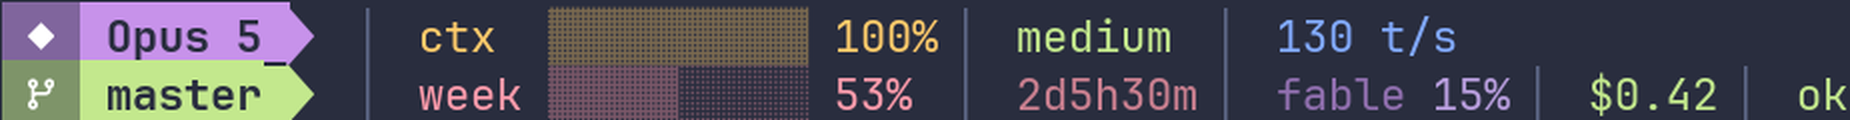
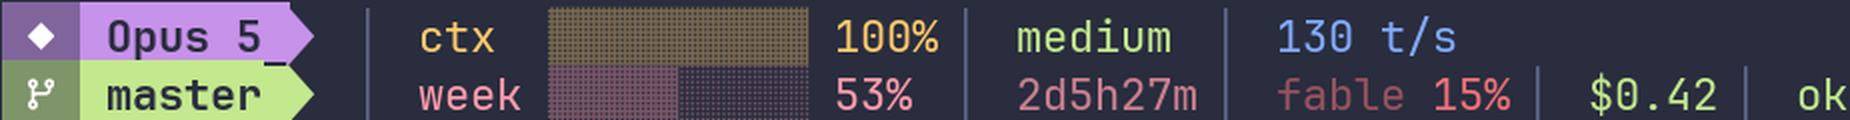
feat: purple week meter, red fable window
The weekly limit reads purple across bar, value and countdown; the per-model
window is red so it separates from the meter it sits next to. Every palette
now names its own red rather than tinting the model colour.

Changed region(s): [[0.6778, 0.65, 0.8319, 0.925], [0.5854, 0.65, 0.647, 0.925]]

diff --git a/scripts/make_themes.py b/scripts/make_themes.py
@@ -80,8 +80,8 @@ def colours(pal):
       'ses_timer': mix(pal['ses'], bg, timer_t), 'week_timer': mix(pal['week'], bg, timer_t),
       'effort': pal['green'], 'speed': pal['blue'], 'cost': pal['green'],
       'changes': pal['yellow'], 'status': pal['green'],
-      'opus': mix(model, fg, .25 if light else .45),
-      'opuslab': mix(model, bg, .20 if light else .35),
+      'opus': pal['red'],
+      'opuslab': mix(pal['red'], bg, .20 if light else .45),
       'sep': pal['sep'],
     }
 
@@ -103,20 +103,20 @@ def paint(template, roles, values):
 
 PALETTES = {
  'nocturne': dict(bg='0B0E14', fg='C6CCDA', glyph='FFFFFF', model='7C5CFF', branch='2E9E7A',
-    limit='F49AC2', ctx='F0C755', ses='E8903C', week='F49AC2', green='3E8E5A', blue='5B9BE8',
-    yellow='E6B34A', sep='79808E'),
+    limit='B69CFF', ctx='F0C755', ses='E8903C', week='B69CFF', green='3E8E5A', blue='5B9BE8',
+    yellow='E6B34A', sep='79808E', red='FF6B6B'),
  'palenight': dict(bg='292D3E', fg='A6ACCD', glyph='FFFFFF', model='C792EA', branch='C3E88D',
     limit='FF9CAC', ctx='FFCB6B', ses='F78C6C', week='FF9CAC', green='C3E88D', blue='82AAFF',
-    yellow='FFCB6B', sep='5C6685'),
+    yellow='FFCB6B', sep='5C6685', red='F07178'),
  'dracula': dict(bg='282A36', fg='F8F8F2', glyph='F8F8F2', model='BD93F9', branch='50FA7B',
     limit='FF79C6', ctx='F1FA8C', ses='FFB86C', week='FF79C6', green='50FA7B', blue='8BE9FD',
-    yellow='F1FA8C', sep='6272A4'),
+    yellow='F1FA8C', sep='6272A4', red='FF5555'),
  'tokyo-night': dict(bg='1A1B26', fg='A9B1D6', glyph='FFFFFF', model='BB9AF7', branch='9ECE6A',
     limit='F7768E', ctx='E0AF68', ses='FF9E64', week='F7768E', green='9ECE6A', blue='7AA2F7',
-    yellow='E0AF68', sep='565F89'),
+    yellow='E0AF68', sep='565F89', red='F7768E'),
  'material-light': dict(bg='FAFAFA', fg='546E7A', glyph='FFFFFF', model='7C4DFF', branch='39ADB5',
     limit='E53935', ctx='F6A434', ses='F76D47', week='E53935', green='5B8C1F', blue='3E6AB8',
-    yellow='B07000', sep='90A4AE', light=True),
+    yellow='B07000', sep='90A4AE', light=True, red='E53935'),
 }
 
 if __name__ == '__main__':
